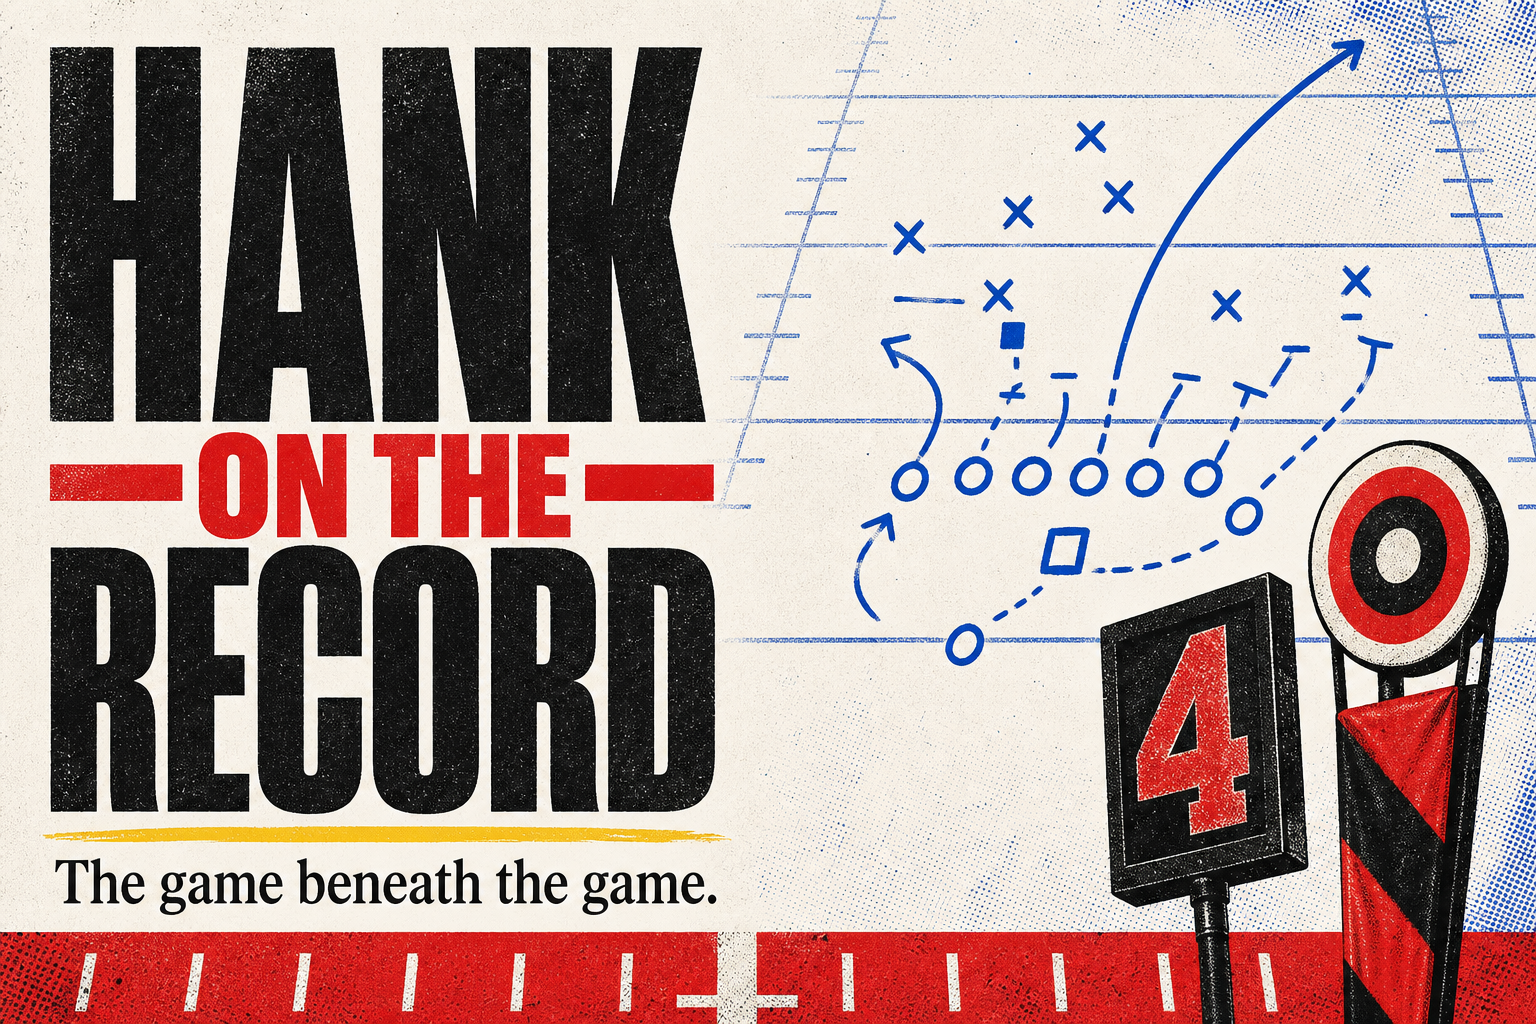
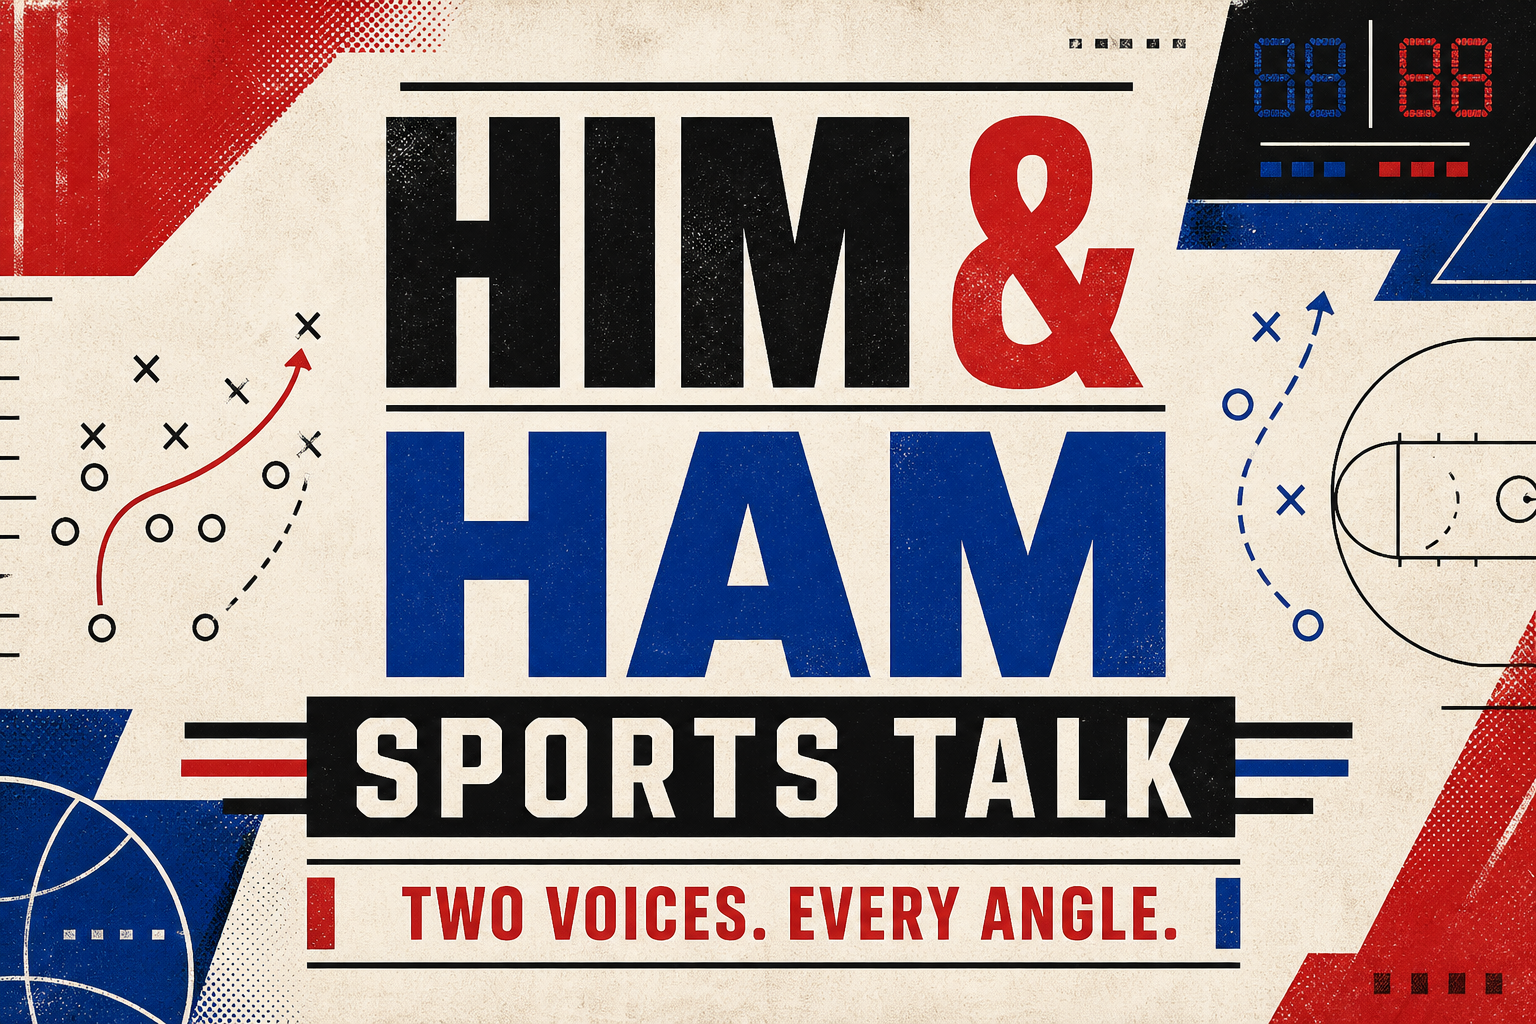
him and ham

diff --git a/app/data/projects.ts b/app/data/projects.ts
@@ -9,12 +9,12 @@ export const conceptProjects = [
     demoUrl: "https://earl-bowl-concept-demo.ejwit.chatgpt.site",
   },
   {
-    name: "Hank on the Record",
+    name: "Him & Ham Sports Talk",
     category: "Editorial · Sports media",
     description: "An opinion-led sports publication with article pages, reader voting, bookmarking, and community discussion.",
     services: ["Product design", "Editorial system", "Interactions"],
     image: "/projects/hank-on-the-record.png",
-    imageAlt: "Hank on the Record concept logo and football play artwork",
+    imageAlt: "Him and Ham Sports Talk logo with football and basketball play artwork",
     demoUrl: "https://hank-on-the-record.ejwit004.workers.dev/",
   },
   {
